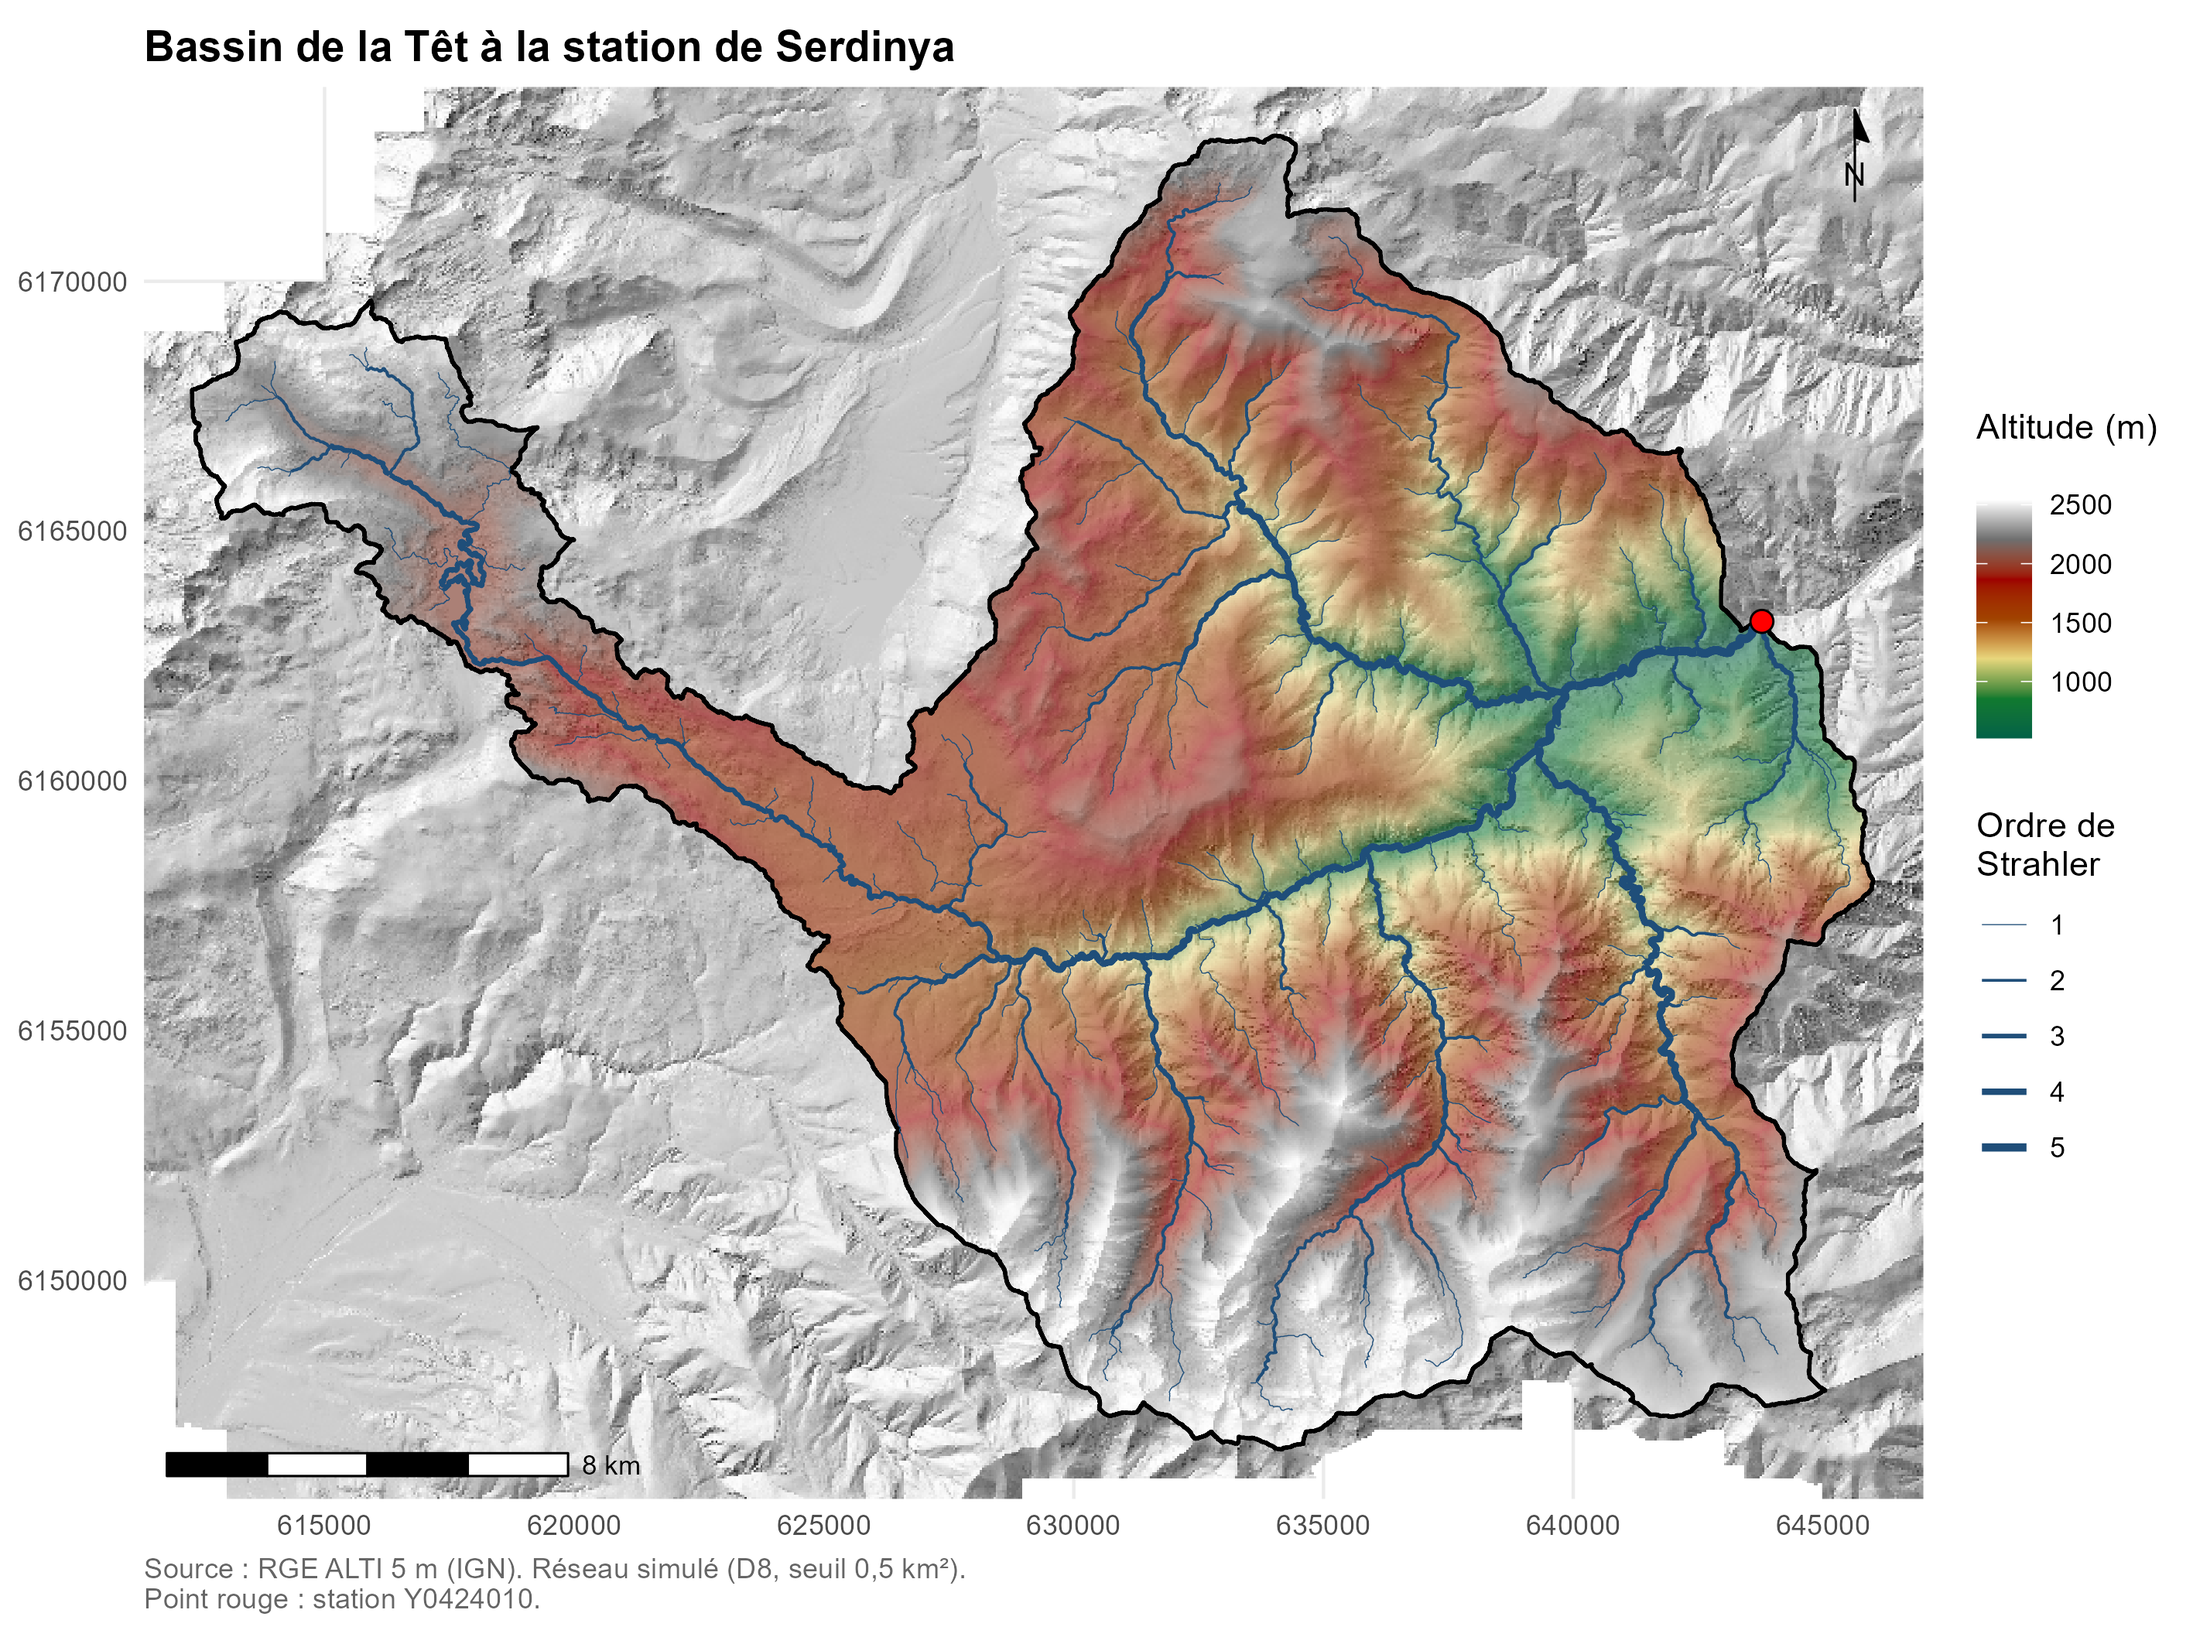
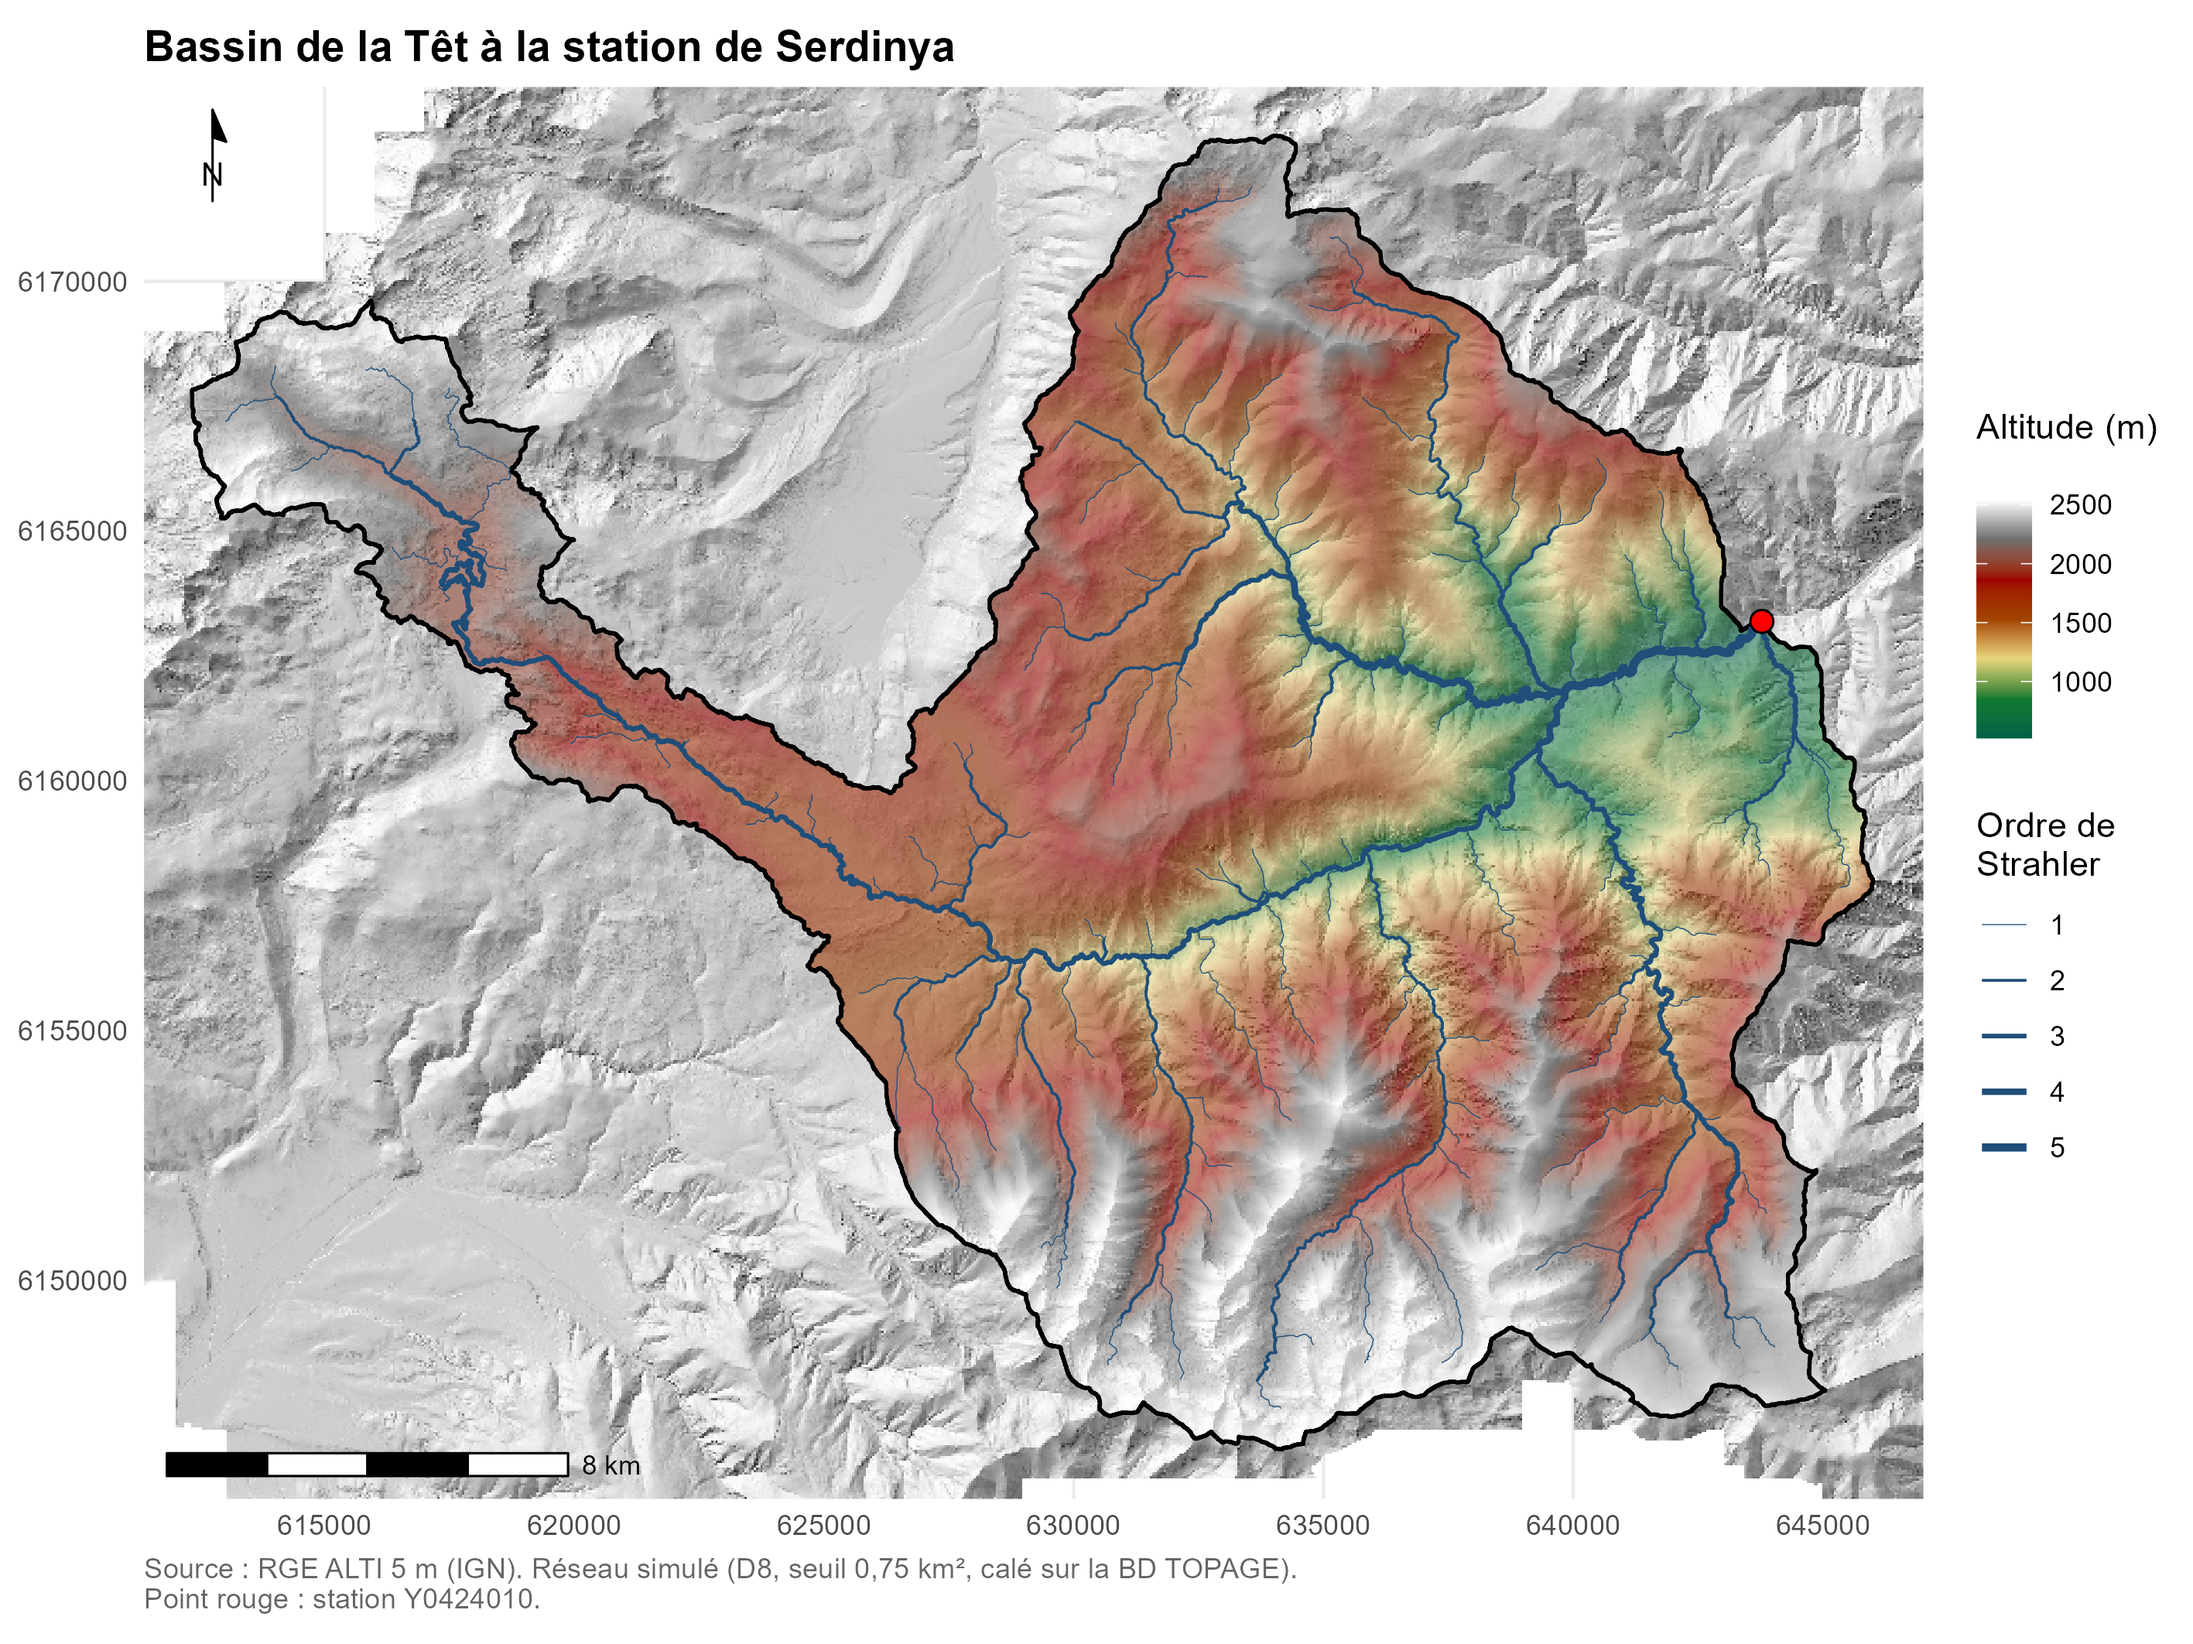
Analyse du seuil par comparaison avec la densité de réseau, hors conduit artificiel, à partir de la couche des troncons hydrographiques de la BD Topage. Modification de tous les seuils associés et du README

diff --git a/README.md b/README.md
@@ -15,26 +15,32 @@ Conception de la chaîne de traitement et analyse des résultats par Gaël Letou
   archive `RGEALTI_MNT_5M_..._D066_.
 - **BD TOPO, réseau hydrographique** (IGN).
 - **BD TOPAGE, bassins versants topographiques** (Sandre / OFB / IGN).
+- **BD TOPAGE, tronçons hydrographiques** (Sandre / OFB / IGN) : couche
+  `sa:TronconHydrographique_FXX_Topage2024` du flux WFS
+  `https://services.sandre.eaufrance.fr/geo/topage2024?`, extraite par
+  intersection avec le bassin, à placer dans `data/reference/troncons_topage.gpkg`.
 
 L'exutoire, placé manuellement, est fourni dans `data/digitalisation/`.
 
-## Exécution du script 
+## Exécution
 
-01_import_mnt.R        mosaïque, CRS, découpage avec marge
+Les paramètres communs (résolution, seuil du réseau) sont définis dans
+`scripts/00_parametres.R`. 
 
-02_correction_cuvettes.R   correction des dépressions
+| Script | Rôle |
+|---|---|
+| `00_parametres.R` | Paramètres communs à la chaîne |
+| `01_import_mnt.R` | Mosaïque du RGE ALTI, découpage sur l'enveloppe BD TOPAGE, agrégation à 5 m |
+| `02_correction_cuvettes.R` | Correction des dépressions du MNT par brèches |
+| `03_ecoulement.R` | Direction d'écoulement (D8) et accumulation |
+| `04_bassin.R` | Accrochage de l'exutoire à la station, délimitation du bassin |
+| `05_validation.R` | Comparaison avec la station et la BD TOPAGE |
+| `06_morphometrie.R` | Forme, relief, hypsométrie et pentes |
+| `07_profil_long.R` | Profil en long de la Têt et pente du lit |
+| `08_carte.R` | Carte du bassin et du réseau hydrographique simulé |
+| `09_calage_reseau.R` | Calage du seuil du réseau sur la BD TOPAGE (hors chaîne) |
 
-03_ecoulement.R        direction D8, accumulation
-
-04_bassin.R            accrochage de l'exutoire, délimitation, polygone
-
-05_validation.R        comparaison avec la BD TOPO et la BD TOPAGE
-
-06_morphometrie.R       forme, hypsométrie, pentes
-
-07_profil_long.R        tracage d'un profil en long.
-
-08_carte.R        réalisation d'une carte de synthèse et d'un ordre de Strahler 
+Le script 09 sert à choisir le seuil inscrit dans `00_parametres.R`.
 
 ## Résultats
 
@@ -109,8 +115,19 @@ d'altitude de 100 m. C : distribution des pentes.*
 ![Carte du bassin de la Têt](figures/carte_bassin_tet.png)
 
 Le réseau hydrographique est extrait de l'accumulation des écoulements,
-avec un seuil de 0,5 km² drainés, puis hiérarchisé selon l'ordre de
-Strahler. La Têt atteint l'ordre 5 à l'exutoire.
+puis hiérarchisé selon l'ordre de Strahler. La Têt atteint l'ordre 5
+à l'exutoire.
+
+**Choix du seuil.** Un pixel appartient au réseau s'il draine plus de
+0,75 km². Ce seuil a été déterminé à partir de la densité de drainage des tronçons
+BD TOPAGE, canaux et conduites exclus. La densité du réseau
+simulé (0,87 km/km²) s'écarte de 2,7 % de celle de la référence
+(0,85 km/km²). 
+
+![Calage du seuil](figures/calage_seuil.png)
+
+Le calage est peu sensible : entre 0,625 et 1 km², la densité reste à
+±10 % de la référence.
 
 ### Profil en long de la Têt
 
@@ -121,7 +138,8 @@ rappellent les étages de pente des versants. B : pente du lit, calculée
 sur des tronçons de 500 m.*
 
 Le profil suit le plus long chemin d'écoulement, à partir de la tête du
-chenal (0,5 km² drainés), avec les altitudes du MNT d'origine.
+chenal (0,75 km² drainés, comme pour le réseau), avec les altitudes du MNT
+d'origine.
 
 - **L'amont est en escalier.** Deux longs paliers, vers 2 000 m et vers
   1 700 m, alternent avec des ressauts. Le premier palier correspond en
@@ -141,19 +159,19 @@ la cartographie des formes glaciaires et la littérature régionale.
 ### Limites
 
 - Le périmètre dépend de la résolution : le contour brut, en marches
-  d'escalier, est 19 % plus long que le contour lissé. Le coefficient
+  d'escalier (forme carrée des pixels), est 19 % plus long que le contour lissé. Le coefficient
   de Gravelius est donc donné pour le contour lissé (tolérance de 5 m).
 - L'agrégation à 5 m par la moyenne arrondit légèrement les sommets,
-  et l'altitude maximale peut être un peu sous-estimée.
-- Le rapport de Melton (0,12) est calculé, mais il n'est pas interprété :
-  ses seuils ont été établis pour de petits bassins torrentiels, et ne
-  s'appliquent pas à un bassin de 415 km².
-  - Le réseau et l'ordre de Strahler dépendent du seuil d'accumulation
-  (0,5 km²) : un seuil plus bas densifie le réseau et peut augmenter
-  l'ordre maximal.
-- Les surfaces de lac apparaissent comme des paliers parfaitement plats
-  sur le profil en long : la pente nulle y traduit le plan d'eau, et non
-  la pente du fond.
+  et l'altitude maximale peut être légèrement sous-estimée.
+- Le rapport de Melton  est de 0,12. Ce dernier reste, en l'état, difficilement interprétable.
+  Ses seuils ont été établis pour de petits BV torrentiels, et semblent difficilement applicable à un bassin de 415 km². 
+  Dans notre cas, ce n'est pas parce que le bassin est grand que ce dernier ne peut pas présenter une partie
+  avec un fonctionnement en lave torentielle. C'est notamment le cas pour le premier troncon,
+  c'est-à-dire les gorges.
+  - - Le seuil du réseau reproduit la densité du réseau **cartographié** par
+  la BD TOPAGE, qui omet souvent les ravines éphémères de tête. Les têtes
+  de chenal réelles peuvent se situer plus haut, et le réseau réel être
+  plus dense. L'ordre de Strahler maximal dépend directement de ce seuil.
 
 ## Packages
 
